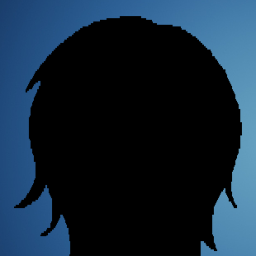
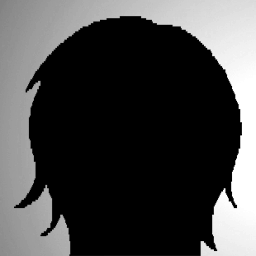
more vivid colors for mic profiles, fix NPE, brighter colors in tinted images

diff --git a/UltraStar Play/Assets/Scenes/Options/RecordingOptions/RecordingOptionsSceneControl.cs b/UltraStar Play/Assets/Scenes/Options/RecordingOptions/RecordingOptionsSceneControl.cs
@@ -403,12 +403,16 @@ public class RecordingOptionsSceneControl : MonoBehaviour, INeedInjection, ITran
     {
         return new List<Color32>
         {
-            Colors.CreateColor("#2ecc71"),
-            Colors.CreateColor("#f1c40f"),
-            Colors.CreateColor("#9b59b6"),
-            Colors.CreateColor("#d35400"),
-            Colors.CreateColor("#c0392b"),
-            Colors.CreateColor("#2c3e50"),
+            Colors.CreateColor("#0AFF99"),
+            Colors.CreateColor("#FFD300"),
+            Colors.CreateColor("#FF8700"),
+            Colors.CreateColor("#FF0000"),
+            Colors.CreateColor("#FDFCDC"),
+            Colors.CreateColor("#B392AC"),
+            Colors.CreateColor("#BE0AFF"),
+            Colors.CreateColor("#580AFF"),
+            Colors.CreateColor("#147DF5"),
+            Colors.CreateColor("#0AEFFF"),
         };
     }
 

diff --git a/UltraStar Play/Assets/Scenes/Sing/PlayerController/PlayerMicPitchTracker.cs b/UltraStar Play/Assets/Scenes/Sing/PlayerController/PlayerMicPitchTracker.cs
@@ -141,6 +141,12 @@ public class PlayerMicPitchTracker : MonoBehaviour, INeedInjection
 
     private IConnectedClientHandler GetConnectedClientHandler()
     {
+        if (micProfile == null
+            || !micProfile.IsInputFromConnectedClient)
+        {
+            return null;
+        }
+
         serverSideConnectRequestManager.TryGetConnectedClientHandler(micProfile.ConnectedClientId, out IConnectedClientHandler connectedClientHandler);
         return connectedClientHandler;
     }
